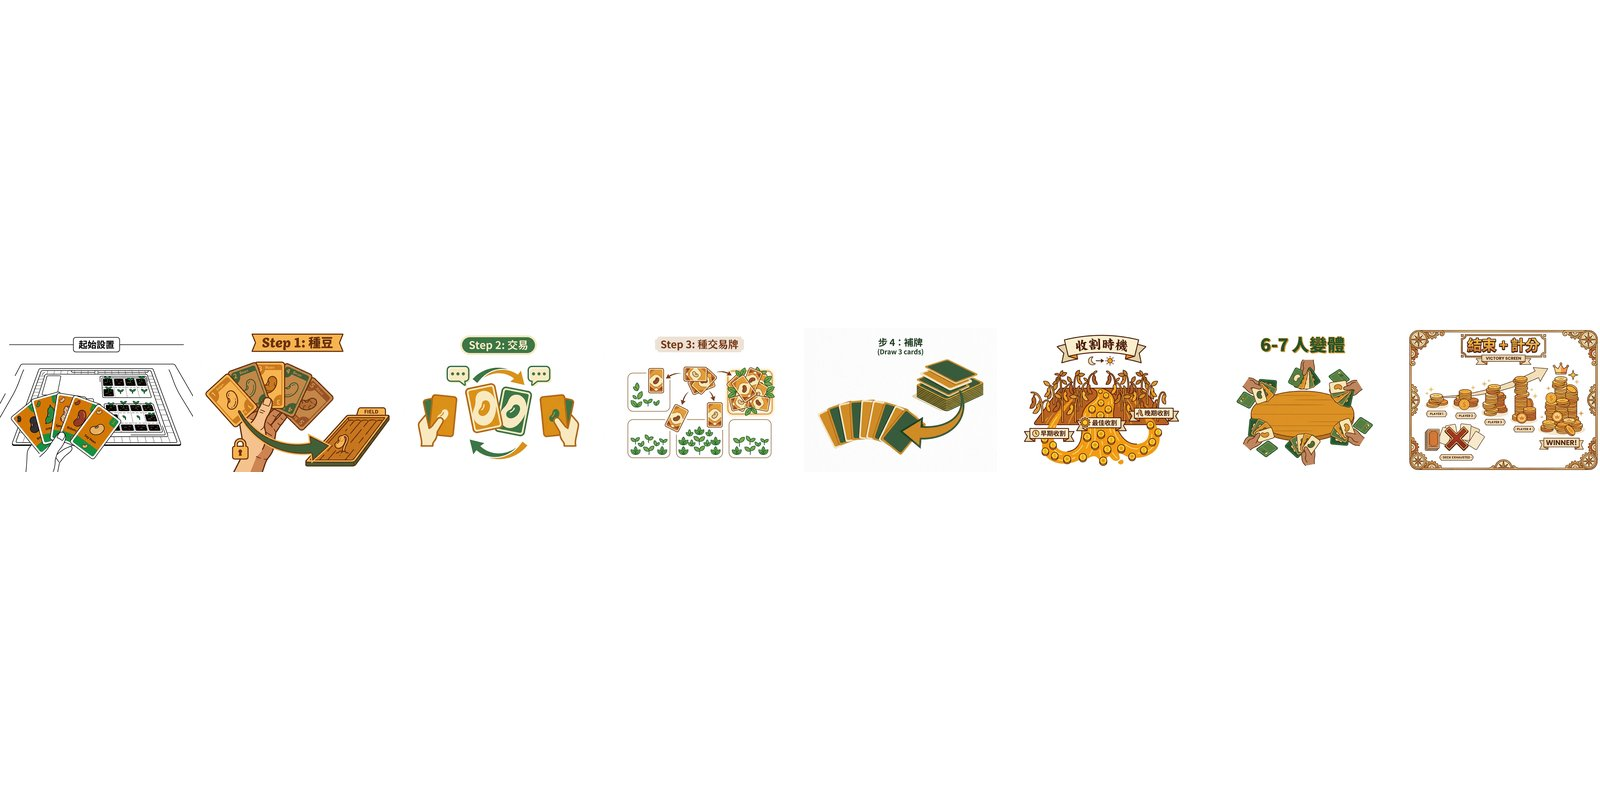
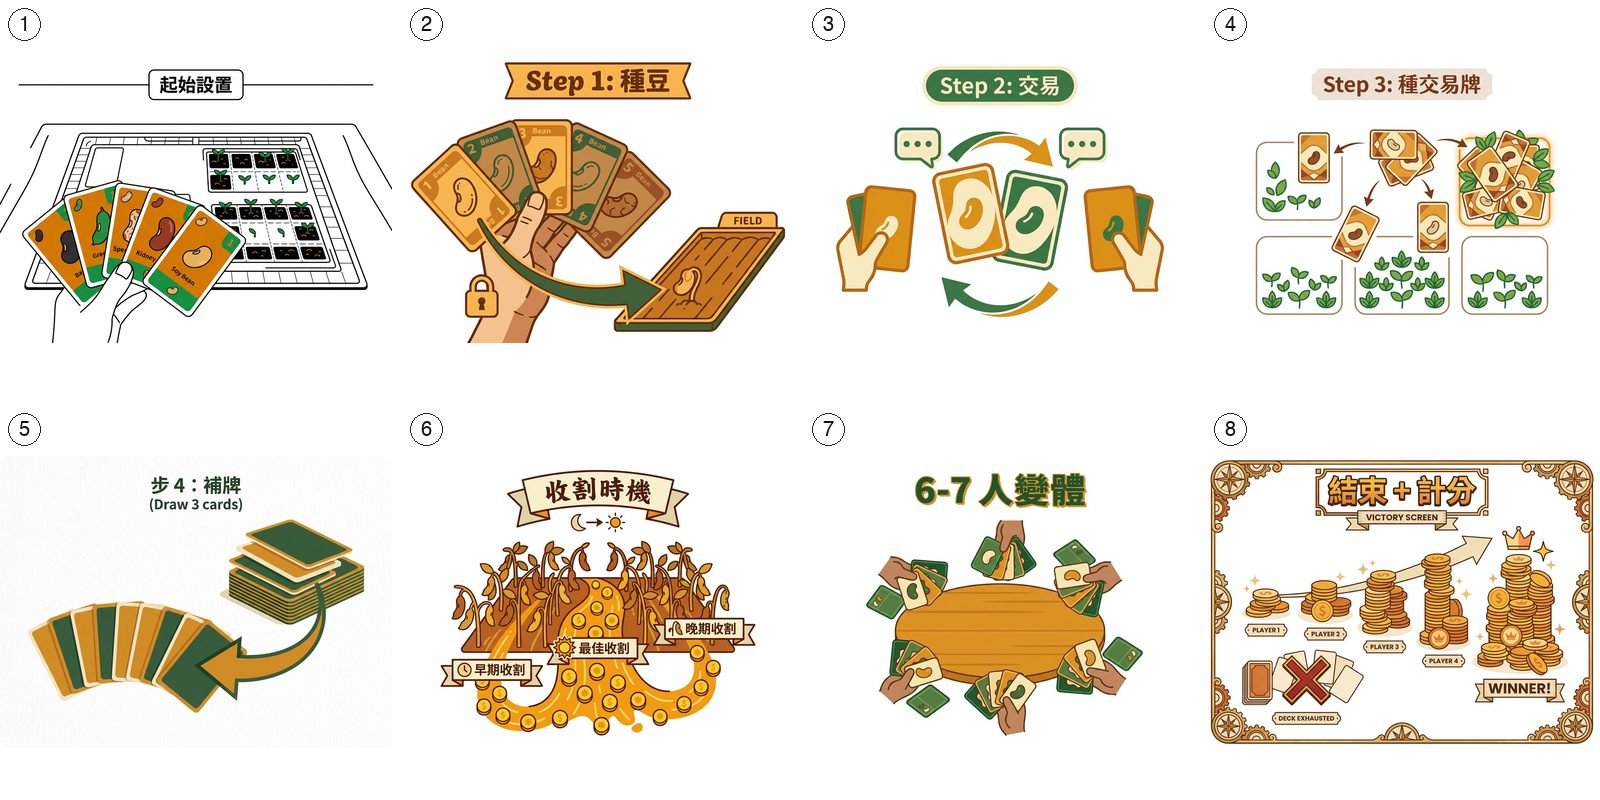
v3.4.0.b board-game: 5 個 infographic layout 由 1xN 改為 2xN grid + step number badge
改進 v3.4.0 嘅 infographic (用戶唔滿意 1xN row 太擠),派 worker 重新做:

**Layout 改動:**
- 1xN grid → 2xN grid 排 step_imgs
  - bohnanza 8 step → 2×4 (cell 392×395)
  - camel-up/take-time/catan 4 step → 2×2 (cell 795×395)
  - seti 2 step → 1×2 (cell 795×800, 高度填滿)
- 自動 compute_grid(n) function, support 2/3/4/6/8/9 panel fallback

**Step number badge:**
- 每個 cell 左上角加 white circle badge (直徑 32px)
- 黑色 number 20px (1, 2, 3... 1-indexed)
- 1.5px 深色 border 增加 contrast
- Font fallback chain: Helvetica.ttc → SFNSMono → Arial → DejaVuSans-Bold

**Visual treatment:**
- Round corners 8px (PIL rounded_rectangle mask)
- White gap 10px between panels
- Subtle visual structure 但 minimal 風格

**Quality:**
- JPEG quality 85 → 82 (bohnanza 8-panel 由 215KB 收細到 199KB)
- 全部 5 個 file < 200KB

**File 改動:**
- 5 個 images/infographic-{id}.jpg (overwrite)
- 1 個 make_infographics.py (refactor: compute_grid, round_corners, draw_step_badge helpers)

**Acceptance:**
- 5 個 infographic 1600x800 (2:1) ✓
- BoHNANZA 8 panel 2×4 readable ✓
- Step number 1-N badge visible ✓
- 唔改 build_pages.py / games.json / markdown / CSS ✓

diff --git a/board-game/make_infographics.py b/board-game/make_infographics.py
@@ -1,5 +1,16 @@
 #!/usr/bin/env python3
-"""合併每個 game 嘅 step images 做 1 張 1:2 (landscape 2:1) infographic。"""
+"""合併每個 game 嘅 step images 做 1 張 2:1 (1600x800) infographic。
+
+Layout policy:
+- 8 step → 2x4 (rows=2, cols=4)
+- 4 step → 2x2 (rows=2, cols=2)
+- 2 step → 1x2 (rows=1, cols=2)
+- 1 step → 1x1 (full canvas)
+- 0 step → skip
+
+每個 step 圖:round corners 8px + white gap 10px + step number badge
+(white circle 32px + black 1-2-3... number 20px) 喺 cell 左上角。
+"""
 import json
 import os
 from pathlib import Path
@@ -8,16 +19,93 @@ from PIL import Image, ImageDraw, ImageFont
 ROOT = Path(__file__).parent
 IMG_DIR = ROOT / 'images'
 TARGET_W, TARGET_H = 1600, 800  # 2:1 landscape
-GAP = 8  # pixels between panels
+GAP = 10  # white gap between panels
+RADIUS = 8  # rounded corners
 BG = (255, 255, 255)
+BADGE_DIAM = 32  # step number badge circle diameter
+BADGE_FONT = 20  # badge number font size (pt)
+BADGE_BORDER = 1.5  # subtle dark border for contrast on light step imgs
+
+
+def compute_grid(n):
+    """決定 rows x cols layout。8→2x4, 4→2x2, 2→1x2, 1→1x1。"""
+    if n <= 1:
+        return (1, 1)
+    if n == 2:
+        return (1, 2)
+    if n <= 4:
+        return (2, 2)
+    if n <= 6:
+        return (2, 3)
+    if n <= 8:
+        return (2, 4)
+    if n <= 9:
+        return (3, 3)
+    # fallback: ceiling cols, ≤2 rows
+    cols = (n + 1) // 2
+    return (2, cols)
+
+
+def round_corners(img, radius):
+    """將圖嘅 4 角做 rounded corners。Return RGBA,角位 transparent。"""
+    if img.mode != 'RGBA':
+        img = img.convert('RGBA')
+    mask = Image.new('L', img.size, 0)
+    ImageDraw.Draw(mask).rounded_rectangle(
+        [(0, 0), img.size], radius=radius, fill=255
+    )
+    img.putalpha(mask)
+    return img
+
+
+def get_badge_font():
+    """Load font (size 20). Try system fonts, fallback to PIL default."""
+    candidates = [
+        '/System/Library/Fonts/Helvetica.ttc',
+        '/System/Library/Fonts/SFNSMono.ttf',
+        '/Library/Fonts/Arial.ttf',
+        '/usr/share/fonts/truetype/dejavu/DejaVuSans-Bold.ttf',
+    ]
+    for path in candidates:
+        if os.path.exists(path):
+            try:
+                return ImageFont.truetype(path, BADGE_FONT)
+            except OSError:
+                continue
+    return ImageFont.load_default()
+
+
+def draw_step_badge(canvas, cell_x, cell_y, cell_w, cell_h, number):
+    """喺 cell 左上角畫 white circle + 黑色 number badge。
+    位置:距 cell 左 + 上 8px 內 margin。
+    """
+    draw = ImageDraw.Draw(canvas)
+    margin = 8
+    cx = cell_x + margin + BADGE_DIAM // 2
+    cy = cell_y + margin + BADGE_DIAM // 2
+    r = BADGE_DIAM // 2
+    bbox = (cx - r, cy - r, cx + r, cy + r)
+
+    # White fill + dark border for visibility
+    draw.ellipse(bbox, fill=(255, 255, 255, 255),
+                 outline=(40, 40, 40, 220), width=int(BADGE_BORDER))
+
+    # Center the number text
+    font = get_badge_font()
+    text = str(number)
+    tbbox = draw.textbbox((0, 0), text, font=font)
+    tw = tbbox[2] - tbbox[0]
+    th = tbbox[3] - tbbox[1]
+    tx = cx - tw / 2 - tbbox[0]
+    ty = cy - th / 2 - tbbox[1]
+    draw.text((tx, ty), text, fill=(20, 20, 20, 255), font=font)
 
 
 def merge_step_images(game_id, step_imgs, box_image):
     """合併 step images 做 1 張 2:1 infographic。
+
     過濾掉 box image (已經喺 hero render)。
-    0 個 step → return None
-    1 個 step → return 該 image resized to 2:1
-    N 個 step → 排成 1 row
+    Layout: 2xN grid 配 step number badge + rounded corners。
     """
     # Filter out box image
     box_filename = box_image.split('/')[-1] if box_image else ''
@@ -33,7 +121,6 @@ def merge_step_images(game_id, step_imgs, box_image):
     images = []
     for img_path in filtered:
         full_path = ROOT / img_path if not img_path.startswith(str(ROOT)) else Path(img_path)
-        # Try images/ directory if file not found
         if not full_path.exists():
             alt = IMG_DIR / Path(img_path).name
             if alt.exists():
@@ -47,25 +134,42 @@ def merge_step_images(game_id, step_imgs, box_image):
         return None
 
     n = len(images)
-    cell_w = (TARGET_W - GAP * (n - 1)) // n
-    cell_h = TARGET_H
+    rows, cols = compute_grid(n)
+
+    # Cell size (with gaps between cells, no outer margin so canvas = 2:1)
+    cell_w = (TARGET_W - GAP * (cols - 1)) // cols
+    cell_h = (TARGET_H - GAP * (rows - 1)) // rows
 
     canvas = Image.new('RGB', (TARGET_W, TARGET_H), BG)
 
     for i, img in enumerate(images):
-        # Resize keeping aspect, fit in cell
+        row = i // cols
+        col = i % cols
+        cell_x = col * (cell_w + GAP)
+        cell_y = row * (cell_h + GAP)
+
+        # Resize keeping aspect, fit inside cell
         iw, ih = img.size
         scale = min(cell_w / iw, cell_h / ih)
         new_w = int(iw * scale)
         new_h = int(ih * scale)
         resized = img.resize((new_w, new_h), Image.LANCZOS)
-        # Center in cell
-        x = i * (cell_w + GAP) + (cell_w - new_w) // 2
-        y = (cell_h - new_h) // 2
-        canvas.paste(resized, (x, y))
+
+        # Center inside cell
+        ox = cell_x + (cell_w - new_w) // 2
+        oy = cell_y + (cell_h - new_h) // 2
+
+        # Round corners then paste
+        rgba = round_corners(resized, RADIUS)
+        canvas.paste(rgba, (ox, oy), mask=rgba)
+
+        # Step number badge (top-left of cell, 1-indexed)
+        draw_step_badge(canvas, cell_x, cell_y, cell_w, cell_h, i + 1)
 
     output = IMG_DIR / f'infographic-{game_id}.jpg'
-    canvas.save(output, 'JPEG', quality=85, optimize=True)
+    # Quality 82: bohnanza 8-panel dense layout stays < 200KB without
+    # visibly hurting 1200x896 step 圖 detail
+    canvas.save(output, 'JPEG', quality=82, optimize=True)
     return output
 
 
@@ -82,7 +186,8 @@ def main():
         result = merge_step_images(gid, step_imgs, box)
         if result:
             size = Image.open(result).size
-            print(f"  ✅ {gid:15s} {n_raw} raw → {result.name} {size}")
+            fsize = result.stat().st_size / 1024
+            print(f"  ✅ {gid:15s} {n_raw} raw → {result.name} {size}  {fsize:.0f}KB")
         else:
             print(f"  ⏭  {gid:15s} 0 step images, skip")
 
